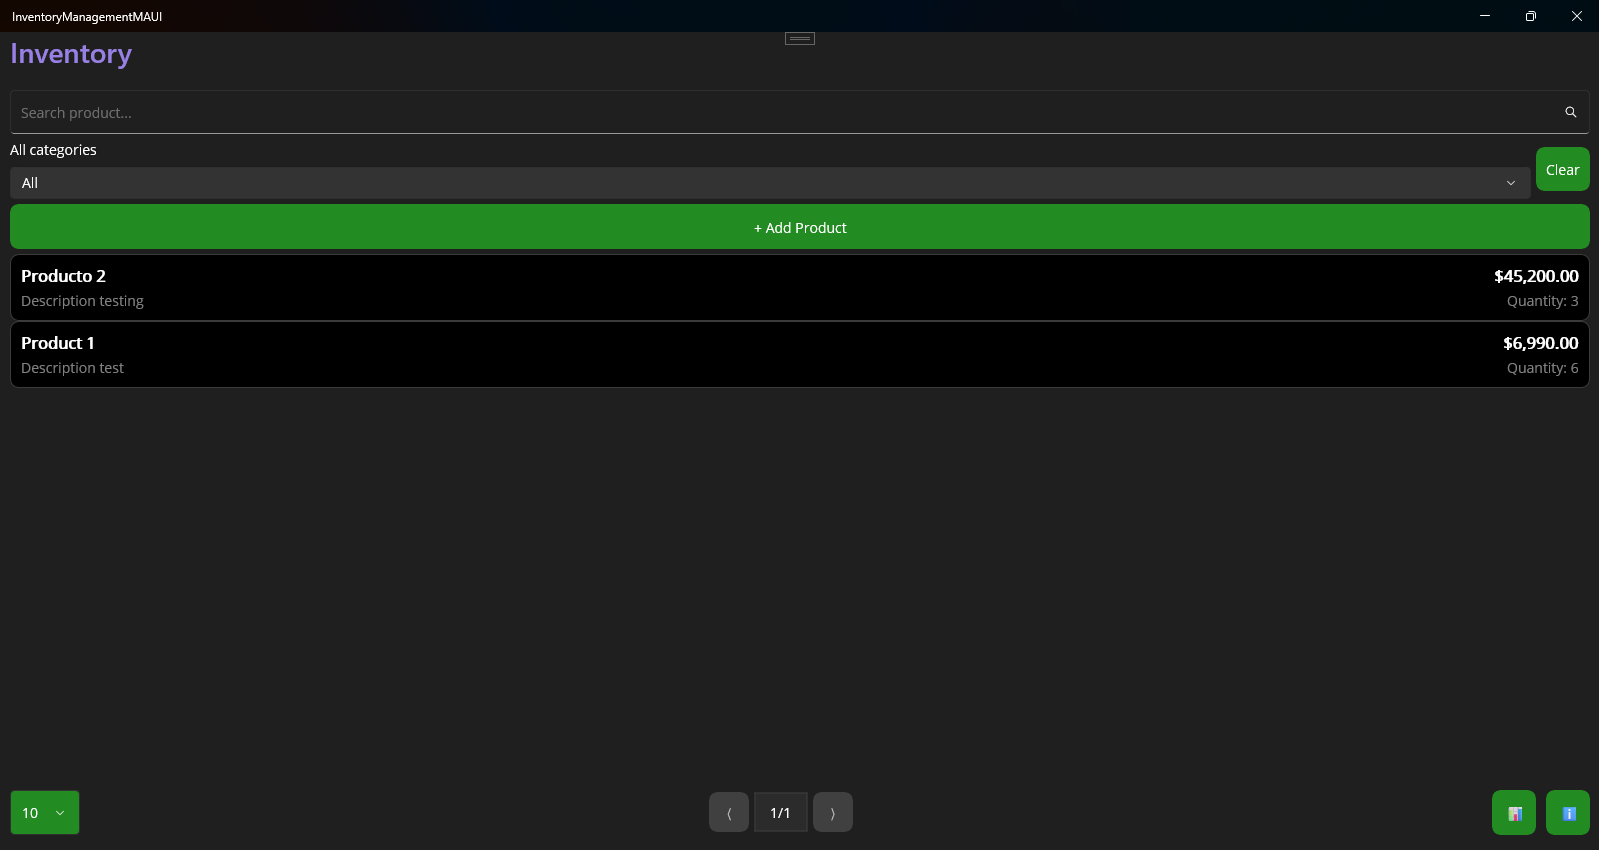
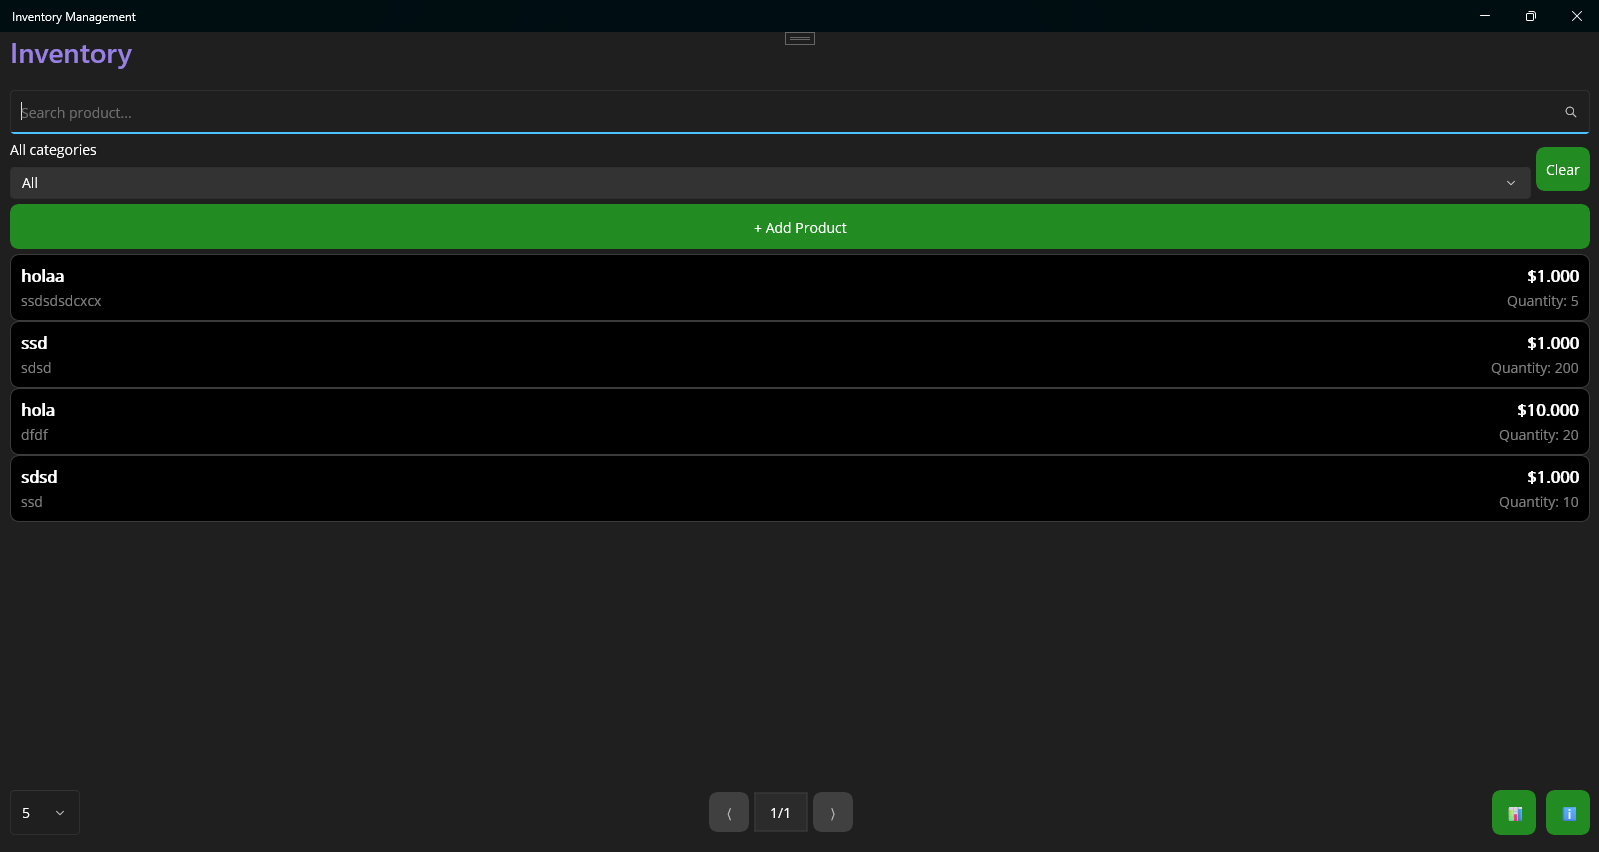
Several fixes (categories, decimal, SKU)

diff --git a/InventoryManagementMAUI/Pages/DashboardPage.xaml b/InventoryManagementMAUI/Pages/DashboardPage.xaml
@@ -5,14 +5,14 @@
              Title="Dashboard">
 
     <Grid>
-        <!-- Indicador de Carga -->
+        <!-- Load content -->
         <ActivityIndicator IsRunning="{Binding Source={RelativeSource AncestorType={x:Type ContentPage}}, Path=IsBusy}"
                           IsVisible="{Binding Source={RelativeSource AncestorType={x:Type ContentPage}}, Path=IsBusy}"
                           HorizontalOptions="Center"
                           VerticalOptions="Center"
                           Color="#228B22"/>
 
-        <!-- Contenido Principal -->
+        <!-- Main Content -->
         <ScrollView IsVisible="{Binding Source={RelativeSource AncestorType={x:Type ContentPage}}, Path=!IsBusy}">
             <VerticalStackLayout Padding="20" Spacing="20">
                 <!-- Summary Cards -->
@@ -169,12 +169,12 @@
 
                 <!-- Alertas -->
                 <Frame BackgroundColor="{AppThemeBinding Light=White, Dark=#333333}"
-       Padding="15"
-       BorderColor="{AppThemeBinding Light=#DDDDDD, Dark=#444444}">
+                       Padding="15"
+                       BorderColor="{AppThemeBinding Light=#DDDDDD, Dark=#444444}">
                     <VerticalStackLayout Spacing="10">
                         <Label Text="Alerts"
-               FontSize="18"
-               FontAttributes="Bold"/>
+                       FontSize="18"
+                       FontAttributes="Bold"/>
                         <CollectionView x:Name="alertsList"
                       HeightRequest="150">
                             <CollectionView.ItemTemplate>
@@ -198,12 +198,12 @@
 
                 <!-- Top Productos -->
                 <Frame BackgroundColor="{AppThemeBinding Light=White, Dark=#333333}"
-       Padding="15"
-       BorderColor="{AppThemeBinding Light=#DDDDDD, Dark=#444444}">
+                       Padding="15"
+                       BorderColor="{AppThemeBinding Light=#DDDDDD, Dark=#444444}">
                     <VerticalStackLayout Spacing="10">
                         <Label Text="Top Products"
-               FontSize="18"
-               FontAttributes="Bold"/>
+                           FontSize="18"
+                           FontAttributes="Bold"/>
                         <CollectionView x:Name="topProductsList"
                       HeightRequest="200">
                             <CollectionView.ItemTemplate>
@@ -224,7 +224,7 @@
                                Text="{Binding MovementCount, StringFormat='Movements: {0}'}"
                                FontSize="14"/>
                                         <Label Grid.Column="2"
-                               Text="{Binding Value, StringFormat='${0:N2}'}"
+                               Text="{Binding Value, StringFormat='${0:N0}'}"
                                FontSize="14"
                                FontAttributes="Bold"/>
                                     </Grid>
@@ -236,17 +236,17 @@
 
                 <!-- Filtros de Tiempo -->
                 <Grid ColumnDefinitions="*,*,*" 
-      ColumnSpacing="10"
-      Margin="0,0,0,10">
-                    <Button Text="Last 7 Days"
-            Grid.Column="0"
-            Clicked="OnLastWeekClicked"/>
-                    <Button Text="Last 30 Days"
-            Grid.Column="1"
-            Clicked="OnLastMonthClicked"/>
-                    <Button Text="All Time"
-            Grid.Column="2"
-            Clicked="OnAllTimeClicked"/>
+                    ColumnSpacing="10"
+                    Margin="0,0,0,10">
+                            <Button Text="Last 7 Days"
+                    Grid.Column="0"
+                    Clicked="OnLastWeekClicked"/>
+                            <Button Text="Last 30 Days"
+                    Grid.Column="1"
+                    Clicked="OnLastMonthClicked"/>
+                            <Button Text="All Time"
+                    Grid.Column="2"
+                    Clicked="OnAllTimeClicked"/>
                 </Grid>
 
                 <!-- Movement Summary -->

diff --git a/InventoryManagementMAUI/Pages/ProductMovementsPage.xaml b/InventoryManagementMAUI/Pages/ProductMovementsPage.xaml
@@ -21,8 +21,10 @@
                        FontAttributes="Bold"/>
                 <Label Text="{Binding Description}"
                        TextColor="Gray"/>
+                <Label Text="{Binding SKU}"
+                       TextColor="Gray"/>
                 <Grid ColumnDefinitions="*,*">
-                    <Label Text="{Binding Price, StringFormat='Price: ${0:N2}'}"
+                    <Label Text="{Binding Price, StringFormat='Price: ${0:N0}'}"
                            Grid.Column="0"/>
                     <Label Text="{Binding Quantity, StringFormat='Current Stock: {0}'}"
                            Grid.Column="1"

diff --git a/InventoryManagementMAUI/MainPage.xaml b/InventoryManagementMAUI/MainPage.xaml
@@ -82,7 +82,7 @@
                                 <StackLayout Grid.Column="1"
                                            HorizontalOptions="End"
                                            Spacing="3">
-                                    <Label Text="{Binding Price, StringFormat='${0:N2}'}"
+                                    <Label Text="{Binding Price, StringFormat='${0:N0}'}"
                                            FontSize="16"
                                            FontAttributes="Bold"
                                            HorizontalOptions="End"/>

diff --git a/InventoryManagementMAUI/Pages/ProductOutputPage.xaml b/InventoryManagementMAUI/Pages/ProductOutputPage.xaml
@@ -16,7 +16,7 @@
                     <Label Text="{Binding Description}"
                            TextColor="Gray"/>
                     <Grid ColumnDefinitions="*,*">
-                        <Label Text="{Binding Price, StringFormat='Price: ${0:N2}'}"
+                        <Label Text="{Binding Price, StringFormat='Price: ${0:N0}'}"
                                Grid.Column="0"/>
                         <Label Text="{Binding Quantity, StringFormat='Current Stock: {0}'}"
                                Grid.Column="1"

diff --git a/InventoryManagementMAUI/Pages/ProductPage.xaml b/InventoryManagementMAUI/Pages/ProductPage.xaml
@@ -10,6 +10,12 @@
                 <Label Text="Name:" />
                 <Entry x:Name="nameEntry"/>
             </VerticalStackLayout>
+            
+            <!-- SKU -->
+            <VerticalStackLayout Spacing="5">
+                <Label Text="SKU:" />
+                <Entry x:Name="skuLabel" IsReadOnly="True" Placeholder="SKU is generated automatically"/>
+            </VerticalStackLayout>
 
             <!-- Description -->
             <VerticalStackLayout Spacing="5">

diff --git a/InventoryManagementMAUI/Services/DatabaseService.cs b/InventoryManagementMAUI/Services/DatabaseService.cs
@@ -1,5 +1,6 @@
 using InventoryManagementMAUI.Models;
 using SQLite;
+using System.Diagnostics;
 
 namespace InventoryManagementMAUI.Services
 {
@@ -33,6 +34,41 @@ namespace InventoryManagementMAUI.Services
             }
         }
 
+        public async Task<string> GenerateSKUAsync(string category)
+        {
+            var prefix = GetCategoryPrefix(category);
+            var year = DateTime.Now.ToString("yy");
+
+            var products = await _database.Table<Product>().ToListAsync();
+            var lastSKU = products
+                .Where(p => p.SKU != null && p.SKU.StartsWith($"{prefix}{year}"))
+                .OrderByDescending(p => p.SKU)
+                .FirstOrDefault();
+
+            int sequence = 1;
+            if (lastSKU != null && lastSKU.SKU.Length >= 11)
+            {
+                if (int.TryParse(lastSKU.SKU.Substring(5), out int lastSequence))
+                {
+                    sequence = lastSequence + 1;
+                }
+            }
+
+            return $"{prefix}{year}{sequence:D6}";
+        }
+
+        private string GetCategoryPrefix(string category)
+        {
+            if (string.IsNullOrEmpty(category)) return "XX";
+
+            var prefix = new string(category.ToUpper()
+                .Where(char.IsLetter)
+                .Take(3)
+                .ToArray());
+
+            return prefix.PadRight(3, 'X');
+        }
+
         public async Task<List<Product>> GetProductsAsync()
         {
             return await _database.Table<Product>()
@@ -60,39 +96,64 @@ namespace InventoryManagementMAUI.Services
 
         public async Task<int> SaveProductAsync(Product product)
         {
-            if (product.Id == 0)
+            try
             {
-                product.CreatedAt = DateTime.Now;
-                var result = await _database.InsertAsync(product);
-                if (result > 0)
+                if (product.Id == 0)
                 {
-                    await RegisterProductMovement(new ProductMovement
+                    product.SKU = await GenerateSKUAsync(product.Category);
+                    product.CreatedAt = DateTime.Now;
+                    Debug.WriteLine($"Generated SKU: {product.SKU}");
+
+                    var result = await _database.InsertAsync(product);
+
+                    if (result > 0)
                     {
-                        ProductId = product.Id,
-                        Quantity = product.Quantity,
-                        Date = DateTime.Now,
-                        Type = "INCOMING",
-                        Notes = "Initial stock entry"
-                    });
+                        // Obtener el ID generado
+                        var savedProduct = await _database.Table<Product>()
+                            .OrderByDescending(p => p.Id)
+                            .FirstOrDefaultAsync();
+
+                        product.Id = savedProduct.Id;
+
+                        await RegisterProductMovement(new ProductMovement
+                        {
+                            ProductId = product.Id,
+                            Quantity = product.Quantity,
+                            Date = DateTime.Now,
+                            Type = "INCOMING",
+                            Notes = "Initial stock entry"
+                        });
+                    }
+                    return result;
                 }
-                return result;
+                else
+                {
+                    var existingProduct = await GetProductAsync(product.Id);
+                    if (existingProduct != null)
+                    {
+                        // Mantener el SKU existente
+                        product.SKU = existingProduct.SKU;
+
+                        if (existingProduct.Quantity != product.Quantity)
+                        {
+                            int difference = product.Quantity - existingProduct.Quantity;
+                            await RegisterProductMovement(new ProductMovement
+                            {
+                                ProductId = product.Id,
+                                Quantity = Math.Abs(difference),
+                                Date = DateTime.Now,
+                                Type = difference > 0 ? "INCOMING" : "OUTGOING",
+                                Notes = $"Stock adjusted by {Math.Abs(difference)} units"
+                            });
+                        }
+                    }
+                    return await _database.UpdateAsync(product);
+                }
             }
-            else
+            catch (Exception ex)
             {
-                var existingProduct = await GetProductAsync(product.Id);
-                if (existingProduct != null && existingProduct.Quantity != product.Quantity)
-                {
-                    int difference = product.Quantity - existingProduct.Quantity;
-                    await RegisterProductMovement(new ProductMovement
-                    {
-                        ProductId = product.Id,
-                        Quantity = Math.Abs(difference),
-                        Date = DateTime.Now,
-                        Type = difference > 0 ? "INCOMING" : "OUTGOING",
-                        Notes = $"Stock adjusted by {Math.Abs(difference)} units"
-                    });
-                }
-                return await _database.UpdateAsync(product);
+                Console.WriteLine($"Error in SaveProductAsync: {ex.Message}");
+                throw;
             }
         }
 

diff --git a/InventoryManagementMAUI/Pages/ProductPage.xaml.cs b/InventoryManagementMAUI/Pages/ProductPage.xaml.cs
@@ -1,5 +1,6 @@
 using InventoryManagementMAUI.Models;
 using InventoryManagementMAUI.Services;
+using System.Diagnostics;
 
 namespace InventoryManagementMAUI.Pages;
 
@@ -17,16 +18,18 @@ public partial class ProductPage : ContentPage
         _database = new DatabaseService();
         _product = product;
 
-        LoadCategoriesAsync();
         newProductButtons.IsVisible = product == null;
         existingProductButtons.IsVisible = product != null;
+
+        InitializePageAsync();
 
         if (product != null)
         {
             nameEntry.Text = product.Name;
+            skuLabel.Text = product.SKU ?? "No SKU";
             descriptionEntry.Text = product.Description;
             quantityEntry.Text = product.Quantity.ToString();
-            priceEntry.Text = product.Price.ToString("F2");
+            priceEntry.Text = product.Price.ToString("F0");
             SetInitialCategory(product.Category);
             UpdateTotal();
         }
@@ -34,7 +37,16 @@ public partial class ProductPage : ContentPage
         UpdateSaveButtonState();
     }
 
-    private async void LoadCategoriesAsync()
+    private async void InitializePageAsync()
+    {
+        await LoadCategoriesAsync();
+        if (_product != null)
+        {
+            SetInitialCategory(_product.Category);
+        }
+    }
+
+    private async Task LoadCategoriesAsync()
     {
         try
         {
@@ -106,8 +118,8 @@ public partial class ProductPage : ContentPage
     {
         try
         {
-            Console.WriteLine($"Quantity text: '{quantityEntry.Text}'");
-            Console.WriteLine($"Price text: '{priceEntry.Text}'");
+            Debug.WriteLine($"Quantity text: '{quantityEntry.Text}'");
+            Debug.WriteLine($"Price text: '{priceEntry.Text}'");
 
             if (string.IsNullOrWhiteSpace(quantityEntry.Text) ||
                 string.IsNullOrWhiteSpace(priceEntry.Text))
@@ -121,21 +133,21 @@ public partial class ProductPage : ContentPage
                                System.Globalization.CultureInfo.InvariantCulture, out decimal price))
             {
                 decimal total = quantity * price;
-                totalLabel.Text = $"$ {total:N2}";
+                totalLabel.Text = $"$ {total:N0}";
 
-                Console.WriteLine($"Converted quantity: {quantity}");
-                Console.WriteLine($"Converted price: {price}");
-                Console.WriteLine($"Calculated total: {total}");
+                Debug.WriteLine($"Converted quantity: {quantity}");
+                Debug.WriteLine($"Converted price: {price}");
+                Debug.WriteLine($"Calculated total: {total}");
             }
             else
             {
                 totalLabel.Text = "$ 0.00";
-                Console.WriteLine("Could not convert quantity or price");
+                Debug.WriteLine("Could not convert quantity or price");
             }
         }
         catch (Exception ex)
         {
-            Console.WriteLine($"Error in UpdateTotal: {ex.Message}");
+            Debug.WriteLine($"Error in UpdateTotal: {ex.Message}");
             totalLabel.Text = "$ 0.00";
         }
     }
@@ -256,6 +268,7 @@ public partial class ProductPage : ContentPage
         try
         {
             var productData = $"Product: {nameEntry.Text}\n" +
+                            $"SKU: {skuLabel.Text}\n" +
                             $"Description: {descriptionEntry.Text}\n" +
                             $"Quantity: {quantityEntry.Text}\n" +
                             $"Price: ${priceEntry.Text}\n" +
@@ -290,6 +303,7 @@ public partial class ProductPage : ContentPage
     public void SetProductData(Product product)
     {
         nameEntry.Text = product.Name;
+        skuLabel.Text = product.SKU;
         descriptionEntry.Text = product.Description;
         quantityEntry.Text = product.Quantity.ToString();
         priceEntry.Text = product.Price.ToString("F2");

diff --git a/InventoryManagementMAUI/Models/Product.cs b/InventoryManagementMAUI/Models/Product.cs
@@ -6,6 +6,7 @@ namespace InventoryManagementMAUI.Models
     {
         [PrimaryKey, AutoIncrement]
         public int Id { get; set; }
+        public string SKU { get; set; }
         public string Name { get; set; }
         public string Description { get; set; }
         public int Quantity { get; set; }

diff --git a/InventoryManagementMAUI/Pages/AboutPage.xaml.cs b/InventoryManagementMAUI/Pages/AboutPage.xaml.cs
@@ -22,7 +22,6 @@ public partial class AboutPage : ContentPage
         }
         catch (Exception ex)
         {
-            // Handle exception (e.g., no browser available)
             await DisplayAlert("Error", "Could not open the link.", "OK");
         }
     }
